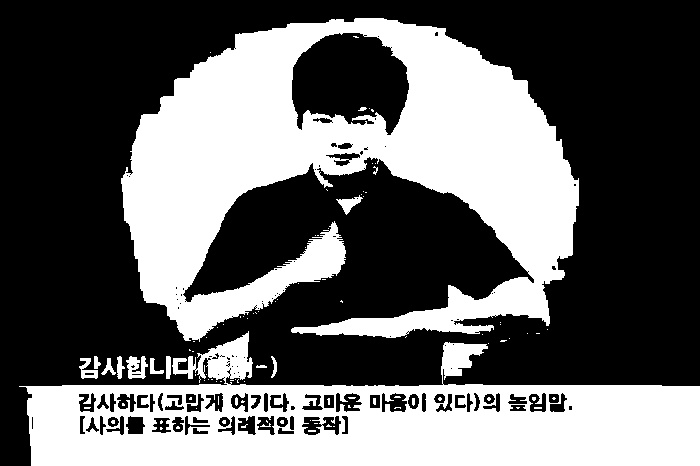
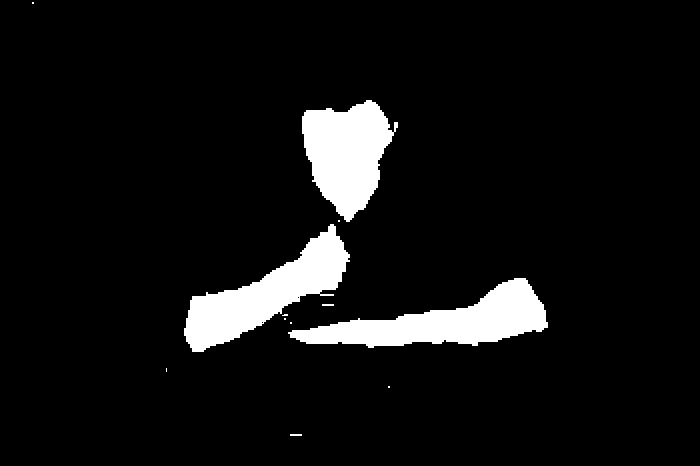
Extract skin color

diff --git a/src/VideoToFrame.py b/src/VideoToFrame.py
@@ -1,24 +1,35 @@
 import cv2
+import numpy as np
 
-vidcap = cv2.VideoCapture('../data/raw/감사(1)_Trim.mp4')
-frameCount = vidcap.get(cv2.CAP_PROP_FRAME_COUNT)
-print('framecount', frameCount)
-framePer30 = frameCount // 30
-success, image = vidcap.read()
+def VidToFrame(load_path, save_path):
+    vidcap = cv2.VideoCapture(load_path)
+    frameCount = vidcap.get(cv2.CAP_PROP_FRAME_COUNT)
+    print('framecount', frameCount)
 
-if not success :
-    print('Video Read Error')
-count = 0
-while success:
-  success, image = vidcap.read()
-  if count % framePer30 == 0:
-      grayscale = cv2.cvtColor(image, cv2.COLOR_BGR2GRAY)
-      _, thresh = cv2.threshold(grayscale, 128, 255, cv2.THRESH_BINARY)
-    #   thresh = cv2.adaptiveThreshold(grayscale,255,cv2.ADAPTIVE_THRESH_MEAN_C,\
-    #   cv2.THRESH_BINARY,15,-2)
-    #   thresh = cv2.adaptiveThreshold(grayscale,255,cv2.ADAPTIVE_THRESH_GAUSSIAN_C,\
-    #   cv2.THRESH_BINARY,15,-2)
-      cv2.imwrite("../data/frames/thank%d.jpg" % count, thresh)     # save frame as JPEG file
-  if cv2.waitKey(10) == 27:                     # exit if Escape is hit
-      break
-  count += 1
+    success, image = vidcap.read()
+
+    if not success :
+        print('Video Read Error')
+    cnt = 0
+    while success:
+        success, image = vidcap.read()
+        
+        hsv = cv2.cvtColor(image, cv2.COLOR_BGR2YCrCb)
+        lower_skin = np.array([0, 133, 77])
+        upper_skin = np.array([255, 173, 127])
+
+        mask = cv2.inRange(hsv, lower_skin, upper_skin)
+
+        cv2.imwrite(save_path%cnt, mask)     # save frame as JPEG file
+        if cv2.waitKey(10) == 27:                     # exit if Escape is hit
+            break
+        cnt += 1
+
+    vidcap.release()
+    pass
+
+
+if __name__ == '__main__':
+    load_path = '..\\data\\raw\\감사(1)_Trim.mp4'
+    save_path = "..\\data\\frames\\thank%d.jpg"
+    VidToFrame(load_path, save_path)
